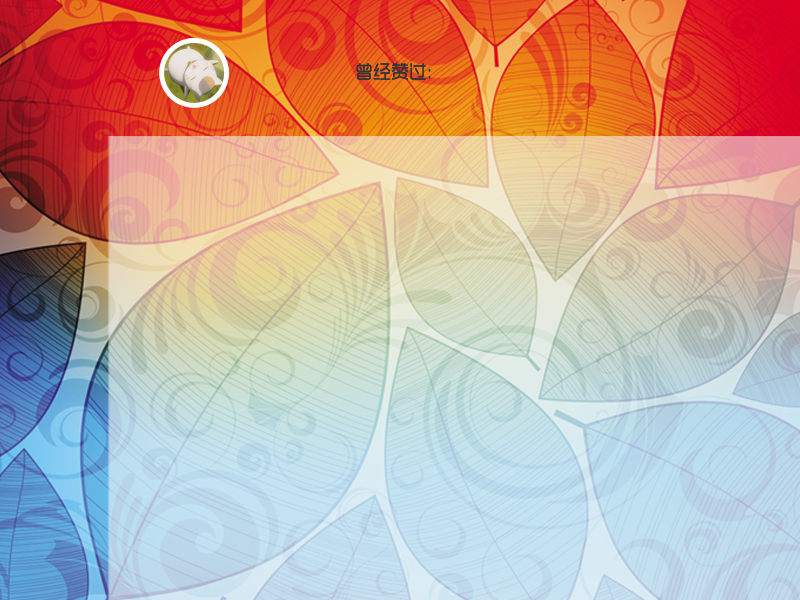
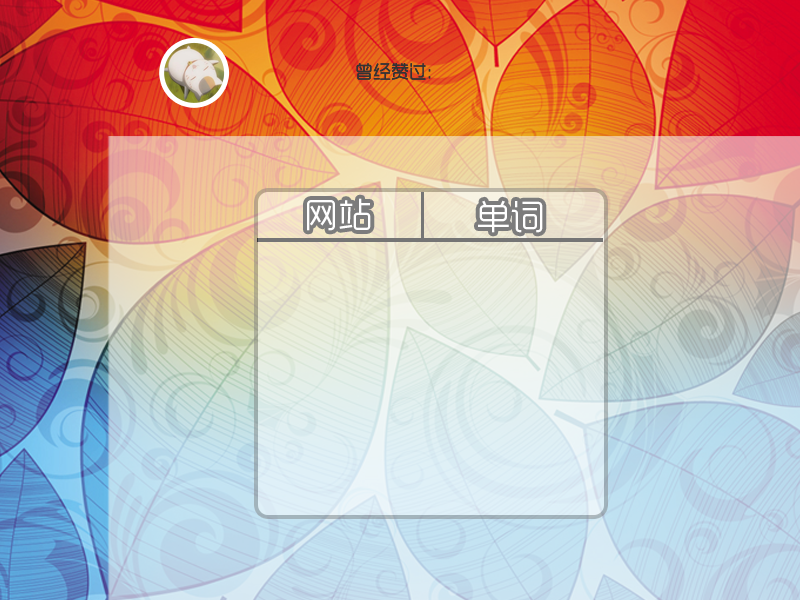
small changes in UI

Changed region(s): [[0.3125, 0.3, 0.7812, 0.87]]

diff --git a/DictionaryClient/src/client/UImain.java b/DictionaryClient/src/client/UImain.java
@@ -11,6 +11,7 @@ import java.util.Date;
 import java.util.Scanner;
 
 import javax.imageio.ImageIO;
+import javax.sound.midi.Receiver;
 import javax.swing.border.EmptyBorder;
 import javax.swing.ImageIcon;
 import javax.swing.JButton;
@@ -40,7 +41,7 @@ public class UImain extends JFrame{
 	private JTextArea usernameArea=new JTextArea();
 	private JList<String> onlineJList = new JList<String>(UserInfo.getOnlineUsers());
 	private JList<String> offlineJList=new JList<String>(UserInfo.getOfflineUsers());
-	
+	private JList<WordCard> wordCardList = new JList<WordCard>();
 	private JTextArea[] txOut = {new JTextArea(5,50), new JTextArea(5,50), new JTextArea(5,50)};
 	private JTextField txInput = new JTextField("请输入英文", 42);
 	private JTextField idInput=new JTextField(16);
@@ -161,7 +162,12 @@ public class UImain extends JFrame{
     	search.setContentAreaFilled(false);
     	saveButton.setContentAreaFilled(false);
     	wordCardIKnow.setContentAreaFilled(false);
-    	
+    	wordCardList.setOpaque(false);
+    	wordCardList.setBackground(new Color(0,0,0,0));
+    	onlineJList.setOpaque(false);
+    	onlineJList.setBackground(new Color(0,0,0,0));
+    	offlineJList.setOpaque(false);
+    	offlineJList.setBackground(new Color(0,0,0,0));
     	
 		login.addActionListener(new ActionListener() {					
 			@Override
@@ -193,6 +199,7 @@ public class UImain extends JFrame{
 			@Override
 			public void actionPerformed(ActionEvent e) {
 				UserInfo.logout();
+				flushMainPage();
 			}
 		});
 		register.addActionListener(new ActionListener() {
@@ -425,8 +432,10 @@ public class UImain extends JFrame{
         userButton.addActionListener(new ActionListener() {
 			@Override
 			public void actionPerformed(ActionEvent e) {
-				if(UserInfo.isLogged())
+				if(UserInfo.isLogged()){
+					userButton.setIcon(userIcon);
 					userPage1();
+					}
 				else {
 					loginPage();
 				}
@@ -453,35 +462,30 @@ public class UImain extends JFrame{
 			
 			@Override
 			public void actionPerformed(ActionEvent e) {
-				if(UserInfo.isLogged())
+				if(UserInfo.isLogged()){
 					userPage1();
+					}
 				else {
 					loginPage();
 				}
 			}
 		});
         
-        userButtonMark.addActionListener(new ActionListener() {
-			
-			@Override
-			public void actionPerformed(ActionEvent arg0) {
-				if(UserInfo.isLogged()){
-					userPage1();
-					remove(wcInUserPageButton);
-					wcInUserPagemarkButton.setBounds(323,387,203,71);
-					wcInUserPagemarkButton.setBorder(new EmptyBorder(0,0,0,0));
-					add(wcInUserPagemarkButton);
-				}
-				else {
-					loginPage();
-				}
-			}
-		});
+
         wcInUserPagemarkButton.addActionListener(new ActionListener() {
 			
 			@Override
 			public void actionPerformed(ActionEvent arg0) {
-				wordCard(wordCardContent);
+				wclistPage();
+				//wordCard(wordCardContent);
+			}
+		});
+        wcInUserPageButton.addActionListener(new ActionListener() {
+			
+			@Override
+			public void actionPerformed(ActionEvent arg0) {
+				// TODO Auto-generated method stub
+				wclistPage();
 			}
 		});
 
@@ -558,6 +562,13 @@ public class UImain extends JFrame{
 					e.printStackTrace();
 				}
 			}
+		});
+		wordCardList.addMouseListener(new MouseAdapter() {
+			 public void mouseClicked(MouseEvent evt) {
+		            if (evt.getClickCount() == 2) {          // Double-click
+		                
+		            } 
+		        }
 		});
 	}
 	
@@ -710,6 +721,40 @@ public class UImain extends JFrame{
 		}
 	}
 
+	private class wclistPanel extends JPanel {
+		public void paintComponent(Graphics g) {
+			Graphics2D g2 = (Graphics2D)g;
+			super.paintComponent(g);
+			Image img = Toolkit.getDefaultToolkit().getImage("images/wclistbg.png");
+			g2.drawImage(img, 0, 0, this.getWidth(), this.getHeight(), this);
+		}
+	}
+	
+	private void wclistPage() {
+		setContentPane(new wclistPanel());
+		setTitle("字字字字典Zict");
+		setLayout(null);
+		setSize(800, 600);
+		setResizable(false);
+		setDefaultCloseOperation(JFrame.EXIT_ON_CLOSE);
+		
+		setLocale(getLocale());
+		
+		wordCardList.setListData(UserInfo.getReceivedCards().toArray(new WordCard[UserInfo.getReceivedCards().size()]));
+		JScrollPane wclist=new JScrollPane(wordCardList);
+		wclist.setOpaque(false);
+		wclist.getViewport().setOpaque(false);
+		wclist.setBounds(230,303,420,220);
+		wclist.setBorder(new EmptyBorder(0,0,0,0));
+
+		add(wclist);
+
+		buttonArea(userButton);
+		flushWCList();
+		flushUserState();
+		setVisible(true);
+	}
+	
 	private void loginPage() {
 		loginFrame.setContentPane(new loginPanel());
 		loginFrame.setResizable(false);
@@ -965,10 +1010,14 @@ public class UImain extends JFrame{
 
 		JScrollPane onl=new JScrollPane(onlineJList);
 		JScrollPane offl=new JScrollPane(offlineJList);
-		onl.setBounds(166,303,200,220);
-		offl.setBounds(466,303,200,220);
+		onl.setBounds(236,303,100,220);
+		offl.setBounds(536,303,100,220);
 		onl.setBorder(new EmptyBorder(0,0,0,0));
 		offl.setBorder(new EmptyBorder(0,0,0,0));
+		onl.setOpaque(false);
+		onl.getViewport().setOpaque(false);
+		offl.setOpaque(false);
+		offl.getViewport().setOpaque(false);
 		add(onl);
 		add(offl);
 
@@ -991,15 +1040,21 @@ public class UImain extends JFrame{
 		usernameArea.setText(UserInfo.getName());
 		add(usernameArea);
 
-		JScrollPane onl=new JScrollPane(onlineJList);
-		JScrollPane offl=new JScrollPane(offlineJList);
-		onl.setBounds(320,247,350,240);//解释
-		offl.setBounds(178,247,90,240);//网站
-		onl.setBorder(new EmptyBorder(0,0,0,0));
-		offl.setBorder(new EmptyBorder(0,0,0,0));
-		//add(likeButton);
-		add(onl);
-		add(offl);
+		JScrollPane word=new JScrollPane(onlineJList);
+		JScrollPane site=new JScrollPane(offlineJList);
+		word.setBounds(450,247,90,240);//单词
+		site.setBounds(308,247,90,240);//网站
+		word.setOpaque(false);
+		word.getViewport().setOpaque(false);
+		site.setOpaque(false);
+		site.getViewport().setOpaque(false);
+		
+		word.setBorder(new EmptyBorder(0,0,0,0));
+		site.setBorder(new EmptyBorder(0,0,0,0));
+		
+
+		add(word);
+		add(site);
 		
 		buttonArea(likeButton);
 		flushUserState();
@@ -1097,6 +1152,12 @@ public class UImain extends JFrame{
 		}
 	}
 	
+	public void flushWCList(){
+		wordCardList.setListData(UserInfo.getReceivedCards().toArray(new WordCard[UserInfo.getReceivedCards().size()]));
+		repaint();
+				
+	}
+	
 	public void flushLikeStatus() {
 		if (UserInfo.isLogged()) {
 			if (WordEntry.getExplanation(0) != null) {
@@ -1139,13 +1200,19 @@ public class UImain extends JFrame{
 	}
 
 	public void flushWordCardArea(){
-		remove(userButton);
-		 userButtonMark.setBounds(0,300,108,150);
-		 userButtonMark.setBorder(new EmptyBorder(0,0,0,0));
-		 userButtonMark.setContentAreaFilled(false);
-		add(userButtonMark);
-		System.out.print("hahhah");
+		userButton.setIcon(userMarkIcon);
+		//remove(userButton);
+		//userButtonMark.setBounds(0,300,108,150);
+		//userButtonMark.setBorder(new EmptyBorder(0,0,0,0));
+		//userButtonMark.setContentAreaFilled(false);
+		//add(userButtonMark);
+		//System.out.print("hahhah");
 	}
+	
+	public void flushMainPage(){
+		mainPage();
+	}
+	
 	public void flushHomePage(){
 		homePage();
 	}
